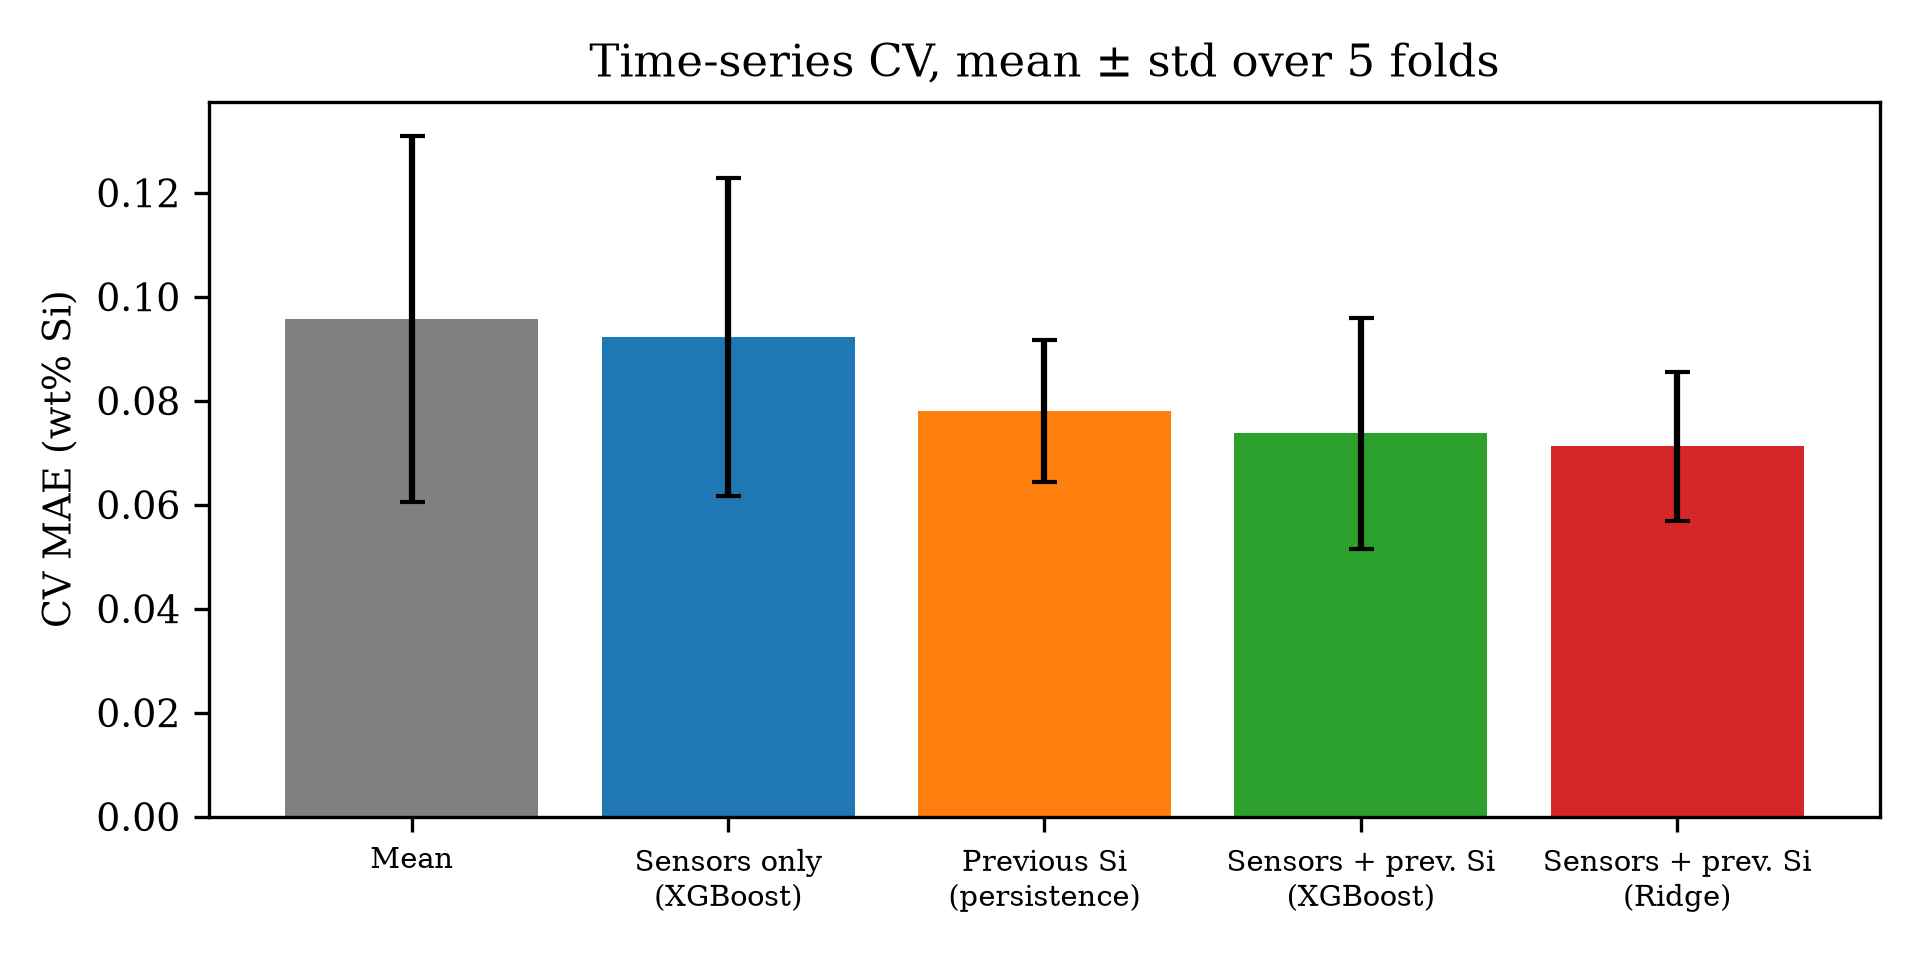
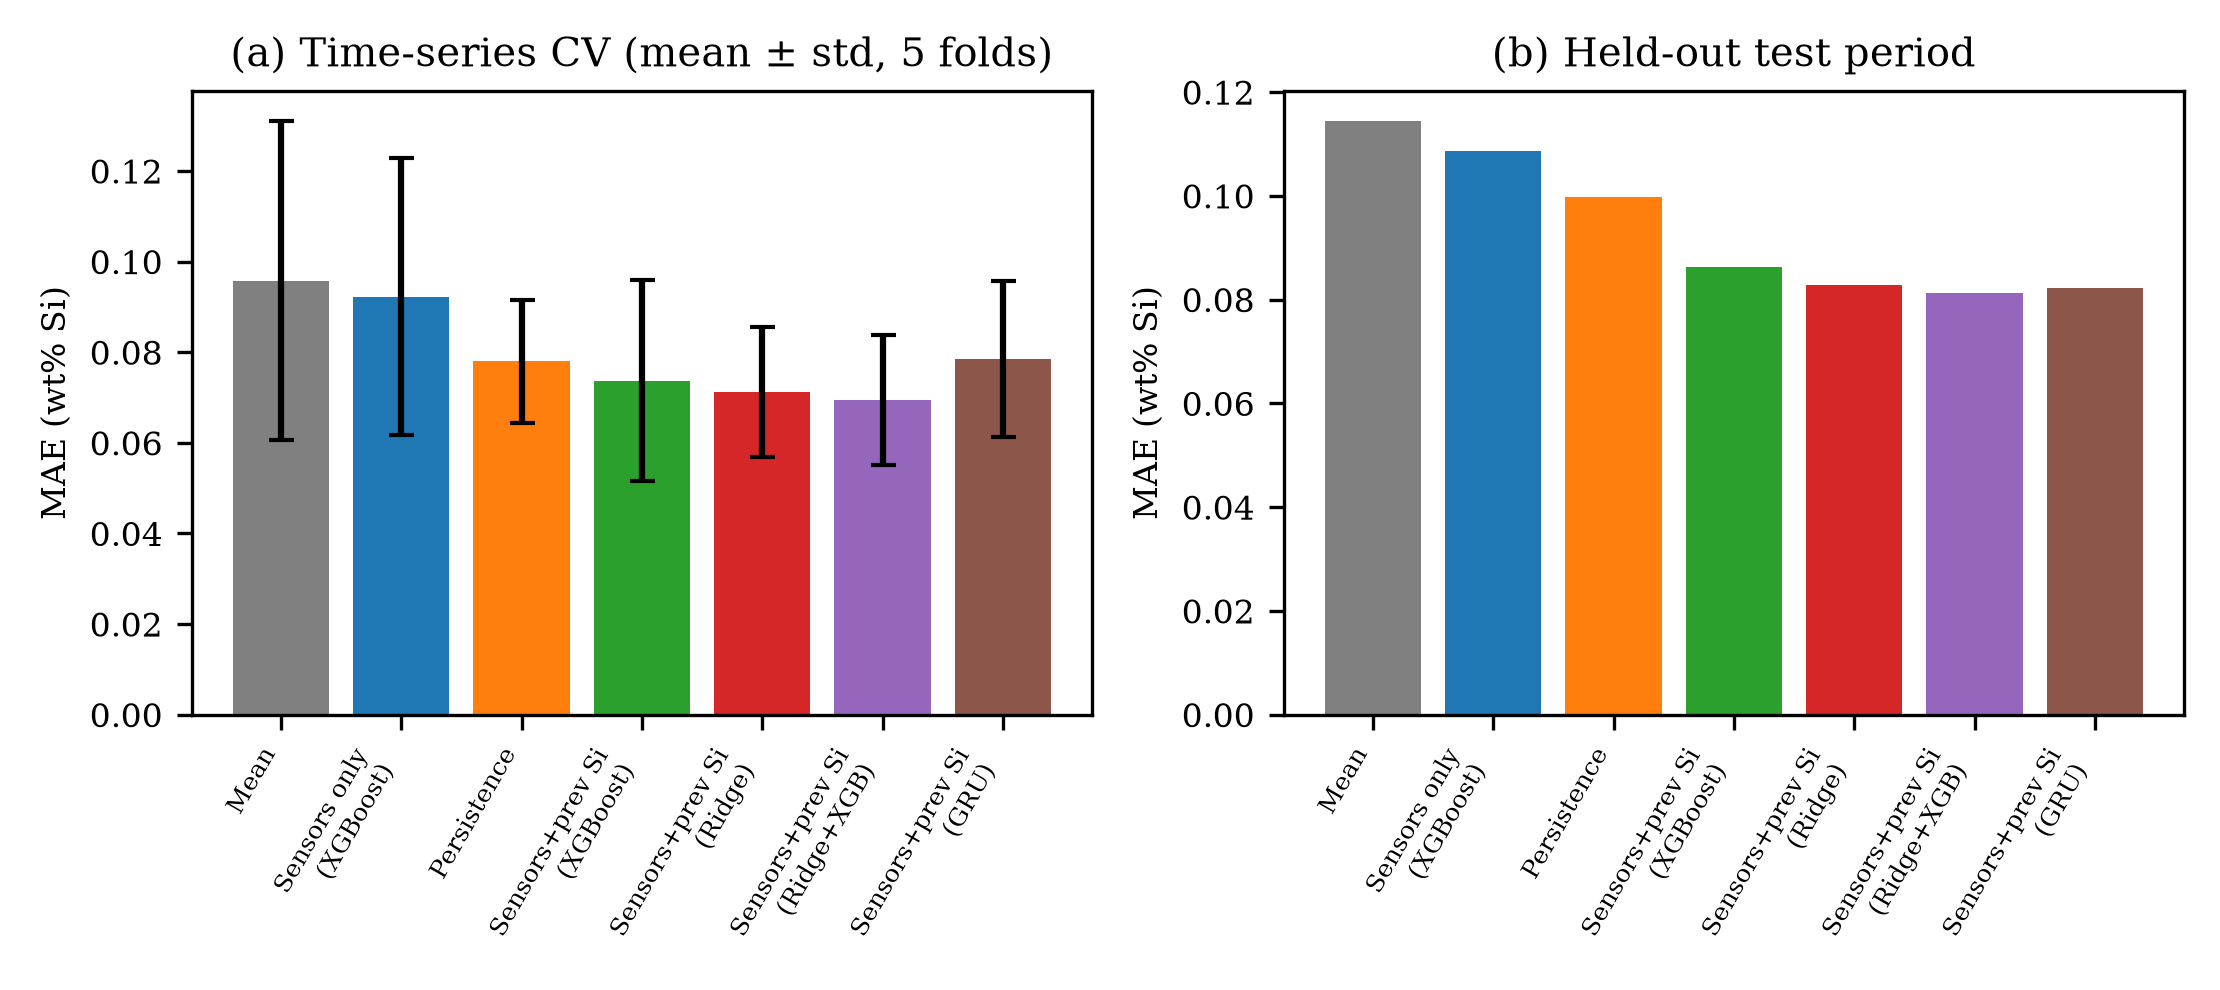
Stage 3.3.1

diff --git a/run_uncertainty.py b/run_uncertainty.py
@@ -13,6 +13,7 @@ PART 2  Early warning of upsets (Si > 1.2 at the next cast), evaluated where the
   used as an alarm score.  The number of upset episodes is very small, so treat this part as exploratory.
 
   python run_uncertainty.py
+  python run_uncertainty.py --figure-only      # only redraw fig_intervals_test.png from saved predictions
 """
 import time
 
@@ -114,6 +115,39 @@ def event_scores(tr, va, cols, p_va):
                          "hybrid_pred": p_va[keep], "persistence": va["si_prev1"].values[keep]})
 
 
+def make_interval_figure(pr=None):
+    """Paper figure: (a) a normal week with the 90 % intervals, (b) the largest upset, where they fail."""
+    import matplotlib
+    matplotlib.use("Agg")
+    import matplotlib.dates as mdates
+    import matplotlib.pyplot as plt
+    if pr is None:
+        pr = pd.read_csv(f"{OUT_DIR}/intervals_test_predictions.csv", parse_dates=["dt"])
+    plt.rcParams.update({"font.size": 8, "font.family": "serif"})
+    big = pr.loc[pr.Si.idxmax(), "dt"]
+    start = big + pd.Timedelta(days=57)                      # a calm stretch well after the upset
+    w1 = (pr.dt >= start) & (pr.dt < start + pd.Timedelta(days=7))
+    w2 = (pr.dt >= big - pd.Timedelta(days=8)) & (pr.dt <= big + pd.Timedelta(days=6))
+    fig, ax = plt.subplots(2, 1, figsize=(7.2, 5.0))
+    panels = [(ax[0], w1, "(a) Normal operation: 90 % intervals", 1),
+              (ax[1], w2, "(b) Around the largest upset: the intervals do not cover the peaks", 2)]
+    for a, w, title, step in panels:
+        q = pr[w]
+        a.fill_between(q.dt, q.cqr_lo, q.cqr_hi, color="tab:orange", alpha=0.25, label="CQR 90 % interval")
+        a.fill_between(q.dt, q.conformal_lo, q.conformal_hi, color="tab:blue", alpha=0.25, label="Conformal 90 % interval")
+        a.plot(q.dt, q.Si, "k.-", lw=0.6, ms=3, label="Measured Si")
+        a.plot(q.dt, q.pred, color="tab:red", lw=0.8, label="Hybrid prediction")
+        a.set_ylabel("Si (wt%)")
+        a.set_title(title)
+        a.xaxis.set_major_formatter(mdates.DateFormatter("%d %b"))
+        a.xaxis.set_major_locator(mdates.DayLocator(interval=step))
+    ax[0].legend(ncol=4, fontsize=6.5, frameon=False, loc="upper left")
+    fig.tight_layout()
+    fig.savefig(f"{OUT_DIR}/fig_intervals_test.png", dpi=300)
+    plt.close(fig)
+    print("saved fig_intervals_test.png")
+
+
 def main():
     _, raw, si, samples = load_universe()
     n = len(samples)
@@ -166,6 +200,7 @@ def main():
     for meth, (lo, hi) in iv.items():
         pr[f"{meth}_lo"], pr[f"{meth}_hi"] = lo, hi
     pr.to_csv(f"{OUT_DIR}/intervals_test_predictions.csv", index=False)
+    make_interval_figure(pr)
 
     # ---- early warning (exploratory) ----
     if ev_parts:
@@ -188,4 +223,8 @@ def main():
 
 
 if __name__ == "__main__":
-    main()
+    import sys
+    if "--figure-only" in sys.argv:          # re-draw the figure from results/intervals_test_predictions.csv
+        make_interval_figure()
+    else:
+        main()

diff --git a/consolidate.py b/consolidate.py
@@ -35,3 +35,25 @@ assert (a.dt.values==b.dt.values).all(); y=a.Si.values
 for n2,p2 in [("hybrid",a.hybrid),("persistence",a.persistence),("xgb_ref",a.xgb_ref)]:
     d,lo,hi=block_bootstrap_diff(np.abs(y-b.gru),np.abs(y-p2)); print(f"gru vs {n2}: dMAE={d:.4f} CI=({lo:.4f},{hi:.4f})","SIG" if not lo<=0<=hi else "n.s.")
 m=y>1.2; print("GRU MAE on upsets (>1.2):", round(float(np.abs(y[m]-b.gru[m]).mean()),3))
+
+
+# ---------------- figure: CV and test MAE of all models (overwrites the older 5-bar version) ----------------
+import matplotlib
+matplotlib.use("Agg")
+import matplotlib.pyplot as plt
+labels = ["Mean", "Sensors only\n(XGBoost)", "Persistence", "Sensors+prev Si\n(XGBoost)", "Sensors+prev Si\n(Ridge)",
+          "Sensors+prev Si\n(Ridge+XGB)", "Sensors+prev Si\n(GRU)"]
+colors = ["gray", "tab:blue", "tab:orange", "tab:green", "tab:red", "tab:purple", "tab:brown"]
+plt.rcParams.update({"font.size": 8, "font.family": "serif"})
+fig, ax = plt.subplots(1, 2, figsize=(7.4, 3.3))
+ax[0].bar(range(len(T)), T.CV_MAE, yerr=T.CV_MAE_std, capsize=3, color=colors)
+ax[0].set_title("(a) Time-series CV (mean ± std, 5 folds)")
+ax[1].bar(range(len(T)), T.Test_MAE, color=colors)
+ax[1].set_title("(b) Held-out test period")
+for a in ax:
+    a.set_xticks(range(len(T)))
+    a.set_xticklabels(labels, fontsize=6, rotation=60, ha="right")
+    a.set_ylabel("MAE (wt% Si)")
+fig.tight_layout()
+fig.savefig(R + "fig_cv_mae.png", dpi=300)
+print("saved fig_cv_mae.png")

diff --git a/README.md b/README.md
@@ -126,10 +126,11 @@ Full table: `results/consolidated_results.csv`. The GRU row is the mean of 5 ind
 | `cv_history_folds.csv`, `cv_history_summary.csv` | `run_extra.py --stage history` | Number of previous Si results (1, 3, 5, 10) and the MLP baseline |
 | `cv_band_summary.csv`, `test_band_results.csv` | `--stage classify` | Low / normal / high Si-band classification |
 | `bootstrap_tests.csv`, `error_by_regime.csv` | `--stage analysis` | Paired block-bootstrap tests and error by Si regime |
-| `fig_test_timeseries.png`, `fig_scatter.png`, `fig_cv_mae.png` | `--stage analysis` / `consolidate.py` | Paper figures (300 dpi) |
+| `fig_test_timeseries.png`, `fig_scatter.png` | `run_extra.py --stage analysis` | Paper figures (300 dpi) |
+| `fig_cv_mae.png` | `consolidate.py` | MAE of all 7 models, CV and test (`run_extra.py` writes an older 5-bar version first; `consolidate.py` overwrites it, so keep the run order) |
 | `cv_peaks_folds.csv`, `cv_peaks_summary.csv`, `test_peaks_results.csv`, `test_peaks_predictions.csv` | `run_peaks.py` | Early-warning features, log target, hybrid |
 | `gru_cv_folds.csv`, `gru_test_results.csv`, `gru_test_predictions.csv`, `gru_test_runs.csv`, `gru_cv_runs.csv` | `run_gru.py` | GRU baseline (means over runs, plus per-run values) |
-| `intervals_cv_*.csv`, `intervals_test_*.csv`, `early_warning_cv.csv`, `fig_intervals_test.png` | `run_uncertainty.py` | Prediction-interval coverage/width and the (non-evaluable) early-warning check |
+| `intervals_cv_*.csv`, `intervals_test_*.csv`, `early_warning_cv.csv`, `fig_intervals_test.png` | `run_uncertainty.py` (`--figure-only` redraws the figure from saved predictions) | Prediction-interval coverage/width and the (non-evaluable) early-warning check |
 | `learning_curve_*.csv`, `fig_learning_curve.png` | `run_learning_curve.py` | MAE vs training size |
 | `thermal_cv_*.csv` | `run_thermal.py` | Th-based features (negative result) |
 | `domain_cv_*.csv` | `run_domain.py` | CV results of the domain features (negative result) |
